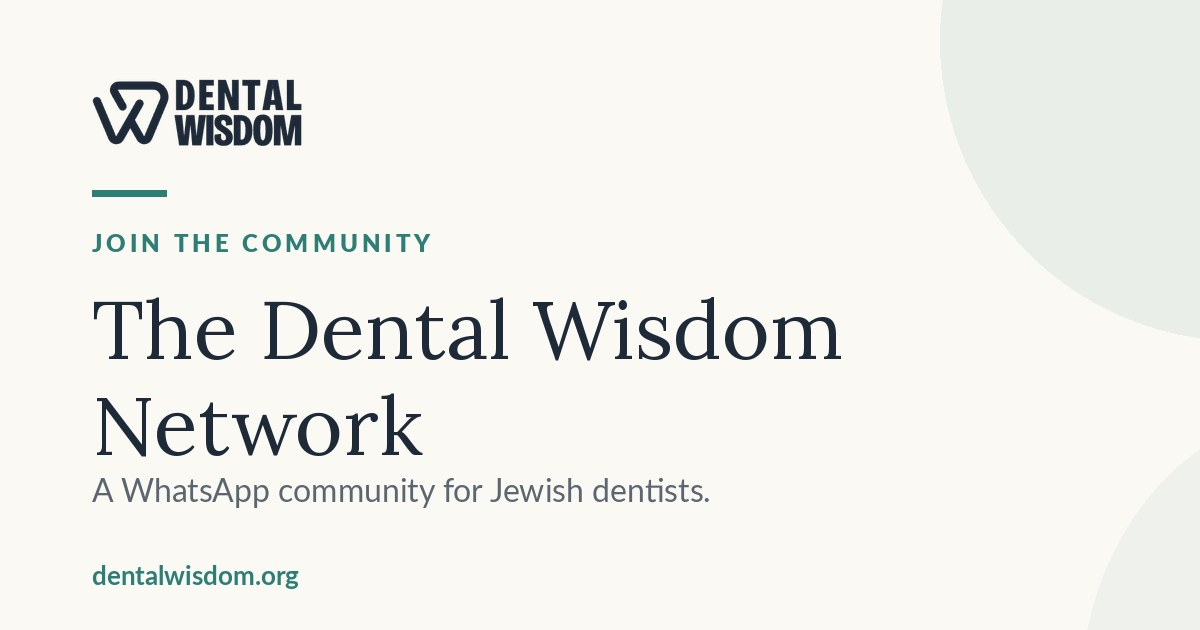
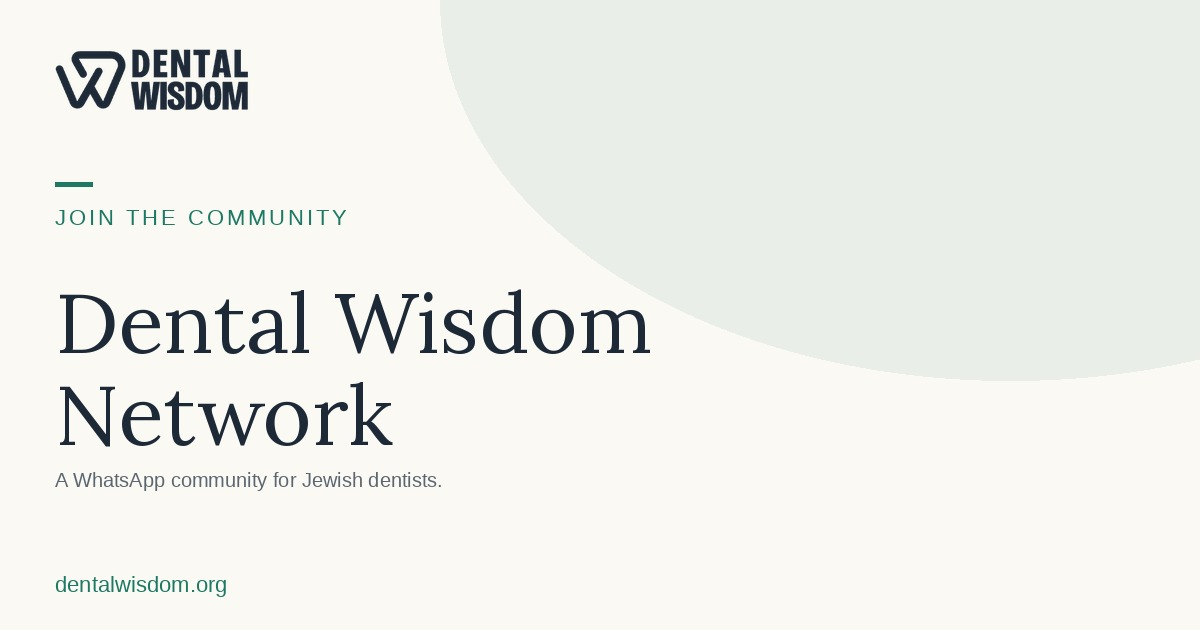
Agenda: add CE credit counts per lecture session

diff --git a/flyer.html b/flyer.html
@@ -2,7 +2,27 @@
 <html lang="en">
 <head>
 <meta charset="UTF-8">
-<title>Dental Wisdom Conference 2027</title>
+<meta name="viewport" content="width=device-width, initial-scale=1.0">
+<title>Dental Wisdom Conference 2027 — Flyer</title>
+<meta name="description" content="The 2027 Dental Wisdom Conference — March 3–6, 2027 at The Altair Hotel, Bay Harbor Islands, Miami. Cross-specialty CE, Shabbos, and community.">
+
+<!-- Open Graph -->
+<meta property="og:title" content="Dental Wisdom Conference 2027">
+<meta property="og:description" content="The 2027 Dental Wisdom Conference — March 3–6, 2027 at The Altair Hotel, Bay Harbor Islands, Miami. Cross-specialty CE, Shabbos, and community.">
+<meta property="og:type" content="website">
+<meta property="og:url" content="https://dentalwisdom.org/flyer.html">
+<meta property="og:image" content="https://dentalwisdom.org/images/social-conference.jpg">
+<meta property="og:image:width" content="1200">
+<meta property="og:image:height" content="630">
+<meta property="og:image:alt" content="Dental Wisdom Conference 2027 — cross-specialty dental CE, March 3–6, 2027, Miami">
+<meta property="og:site_name" content="Dental Wisdom">
+
+<!-- Twitter Card -->
+<meta name="twitter:card" content="summary_large_image">
+<meta name="twitter:title" content="Dental Wisdom Conference 2027">
+<meta name="twitter:description" content="The 2027 Dental Wisdom Conference — March 3–6, 2027 at The Altair Hotel, Bay Harbor Islands, Miami. Cross-specialty CE, Shabbos, and community.">
+<meta name="twitter:image" content="https://dentalwisdom.org/images/social-conference.jpg">
+
 <link rel="preconnect" href="https://fonts.googleapis.com">
 <link href="https://fonts.googleapis.com/css2?family=Playfair+Display:ital,wght@0,400;0,700;1,400&family=Inter:wght@300;400;500&display=swap" rel="stylesheet">
 <style>

diff --git a/js/agenda-data.js b/js/agenda-data.js
@@ -34,13 +34,13 @@ window.AGENDA_DATA = [
   { day: "Thursday", time: "8:00 – 8:45 AM", title: "Breakfast", speaker: "", location: "OVO at The Altair" },
   { day: "Thursday", time: "8:15 – 8:45 AM", title: "Registration", speaker: "", location: "" },
   { day: "Thursday", time: "8:45 – 9:00 AM", title: "Welcoming Remarks", speaker: "Dr. Lisa (Greenstein) Sokol", location: "Shul" },
-  { day: "Thursday", time: "9:00 – 10:00 AM", title: "Product Development – The Story of TheraBreath", speaker: "Dr. Harold Katz", speakerUrl: "conference-speakers.html#speaker-harold-katz", location: "Shul", ce: true },
-  { day: "Thursday", time: "10:00 AM – 12:00 PM", title: "Designing Smiles That Last: Modern Prosthodontic Strategies for Predictable, Aesthetic & Functional Excellence", speaker: "Dr. Daniel Greenbaum", speakerUrl: "conference-speakers.html#speaker-daniel-greenbaum", location: "Shul", ce: true },
+  { day: "Thursday", time: "9:00 – 10:00 AM", title: "Product Development – The Story of TheraBreath", speaker: "Dr. Harold Katz", speakerUrl: "conference-speakers.html#speaker-harold-katz", location: "Shul", ce: true, ceCredits: 1 },
+  { day: "Thursday", time: "10:00 AM – 12:00 PM", title: "Designing Smiles That Last: Modern Prosthodontic Strategies for Predictable, Aesthetic & Functional Excellence", speaker: "Dr. Daniel Greenbaum", speakerUrl: "conference-speakers.html#speaker-daniel-greenbaum", location: "Shul", ce: true, ceCredits: 2 },
   { day: "Thursday", time: "12:00 – 2:00 PM", title: "Lunch", speaker: "", location: "OVO at The Altair" },
-  { day: "Thursday", time: "2:00 – 4:00 PM", title: "'Hopeless' to Heroic: Modern Approaches to Periodontal Regeneration and Plastic Surgery", speaker: "Dr. Sean Ference", speakerUrl: "conference-speakers.html#speaker-sean-ference", location: "Shul", ce: true },
-  { day: "Thursday", time: "4:00 – 6:00 PM", title: "Lecture Title TBD", speaker: "Speaker TBD", location: "Shul", ce: true },
+  { day: "Thursday", time: "2:00 – 4:00 PM", title: "'Hopeless' to Heroic: Modern Approaches to Periodontal Regeneration and Plastic Surgery", speaker: "Dr. Sean Ference", speakerUrl: "conference-speakers.html#speaker-sean-ference", location: "Shul", ce: true, ceCredits: 2 },
+  { day: "Thursday", time: "4:00 – 6:00 PM", title: "Lecture Title TBD", speaker: "Speaker TBD", location: "Shul", ce: true, ceCredits: 2 },
   { day: "Thursday", time: "6:00 – 6:30 PM", title: "Break (Mincha & Maariv)", speaker: "", location: "Shul" },
-  { day: "Thursday", time: "6:30 – 7:30 PM", title: "Lecture Title TBD", speaker: "Speaker TBD", location: "Shul", ce: true },
+  { day: "Thursday", time: "6:30 – 7:30 PM", title: "Lecture Title TBD", speaker: "Speaker TBD", location: "Shul", ce: true, ceCredits: 1 },
   { day: "Thursday", time: "8:00 PM", title: "Welcome Party", speaker: "", location: "Atrium" },
 
   // ---------------- Friday ----------------
@@ -48,11 +48,11 @@ window.AGENDA_DATA = [
   { day: "Friday", time: "7:00 – 8:00 AM", title: "Shacharis", speaker: "", location: "Library" },
   { day: "Friday", time: "8:00 – 8:45 AM", title: "Breakfast", speaker: "", location: "OVO at The Altair" },
   { day: "Friday", time: "8:45 – 9:00 AM", title: "Welcoming Remarks", speaker: "Dr. Lisa (Greenstein) Sokol", location: "Shul" },
-  { day: "Friday", time: "9:00 – 10:00 AM", title: "Lecture Title TBD", speaker: "Speaker TBD", location: "Shul", ce: true },
-  { day: "Friday", time: "10:00 AM – 12:00 PM", title: "Lecture Title TBD", speaker: "Speaker TBD", location: "Shul", ce: true },
+  { day: "Friday", time: "9:00 – 10:00 AM", title: "Lecture Title TBD", speaker: "Speaker TBD", location: "Shul", ce: true, ceCredits: 1 },
+  { day: "Friday", time: "10:00 AM – 12:00 PM", title: "Lecture Title TBD", speaker: "Speaker TBD", location: "Shul", ce: true, ceCredits: 2 },
   { day: "Friday", time: "12:00 – 2:00 PM", title: "Lunch", speaker: "", location: "OVO at The Altair" },
-  { day: "Friday", time: "2:00 – 4:00 PM", title: "Lecture Title TBD", speaker: "Speaker TBD", location: "Shul", ce: true },
-  { day: "Friday", time: "4:00 – 5:00 PM", title: "Lecture Title TBD", speaker: "Speaker TBD", location: "Shul", ce: true },
+  { day: "Friday", time: "2:00 – 4:00 PM", title: "Lecture Title TBD", speaker: "Speaker TBD", location: "Shul", ce: true, ceCredits: 2 },
+  { day: "Friday", time: "4:00 – 5:00 PM", title: "Lecture Title TBD", speaker: "Speaker TBD", location: "Shul", ce: true, ceCredits: 1 },
   { day: "Friday", time: "6:00 PM", title: "Mincha & Maariv", speaker: "", location: "Shul" },
   { day: "Friday", time: "8:00 PM", title: "Dinner", speaker: "", location: "OVO at The Altair" },
   { day: "Friday", time: "10:30 PM", title: "Oneg", speaker: "", location: "Shul" },
@@ -63,8 +63,8 @@ window.AGENDA_DATA = [
   { day: "Shabbos", time: "11:00 AM", title: "Kiddush", speaker: "", location: "Shul" },
   { day: "Shabbos", time: "11:00 AM", title: "Dvar Torah", speaker: "", location: "Shul" },
   { day: "Shabbos", time: "12:00 PM", title: "Lunch", speaker: "", location: "OVO at The Altair" },
-  { day: "Shabbos", time: "3:00 PM", title: "Lecture Title TBD", speaker: "Speaker TBD", location: "Shul", ce: true },
-  { day: "Shabbos", time: "4:30 PM", title: "Lecture Title TBD", speaker: "Speaker TBD", location: "Shul", ce: true },
+  { day: "Shabbos", time: "3:00 PM", title: "Lecture Title TBD", speaker: "Speaker TBD", location: "Shul", ce: true, ceCredits: 1.5 },
+  { day: "Shabbos", time: "4:30 PM", title: "Lecture Title TBD", speaker: "Speaker TBD", location: "Shul", ce: true, ceCredits: 1.5 },
   { day: "Shabbos", time: "6:00 PM", title: "Mincha", speaker: "", location: "Shul" },
   { day: "Shabbos", time: "6:30 PM", title: "Shalosh Seudos", speaker: "", location: "Shul" },
   { day: "Shabbos", time: "7:00 PM", title: "Maariv", speaker: "", location: "Shul" },

diff --git a/js/agenda.js b/js/agenda.js
@@ -143,6 +143,7 @@ document.addEventListener('DOMContentLoaded', function () {
     var speakerUrl = (item.speakerUrl || '').trim();
     var location   = (item.location   || '').trim();
     var isCE       = !!item.ce;
+    var ceCredits  = item.ceCredits || null;
 
     // Speaker — hyperlink if speakerUrl provided
     var speakerHtml = '';
@@ -158,7 +159,7 @@ document.addEventListener('DOMContentLoaded', function () {
     var html = '<div class="' + classes + '">';
     if (time) {
       html += '<div class="agenda-item__time">' + escapeHtml(time) +
-        (isCE ? '<span class="agenda-item__ce-badge">CE Credit</span>' : '') +
+        (isCE ? '<span class="agenda-item__ce-badge">' + (ceCredits ? ceCredits + ' CE Credit' + (ceCredits !== 1 ? 's' : '') : 'CE Credit') + '</span>' : '') +
         '</div>';
     }
     html += '<div class="agenda-item__details">';